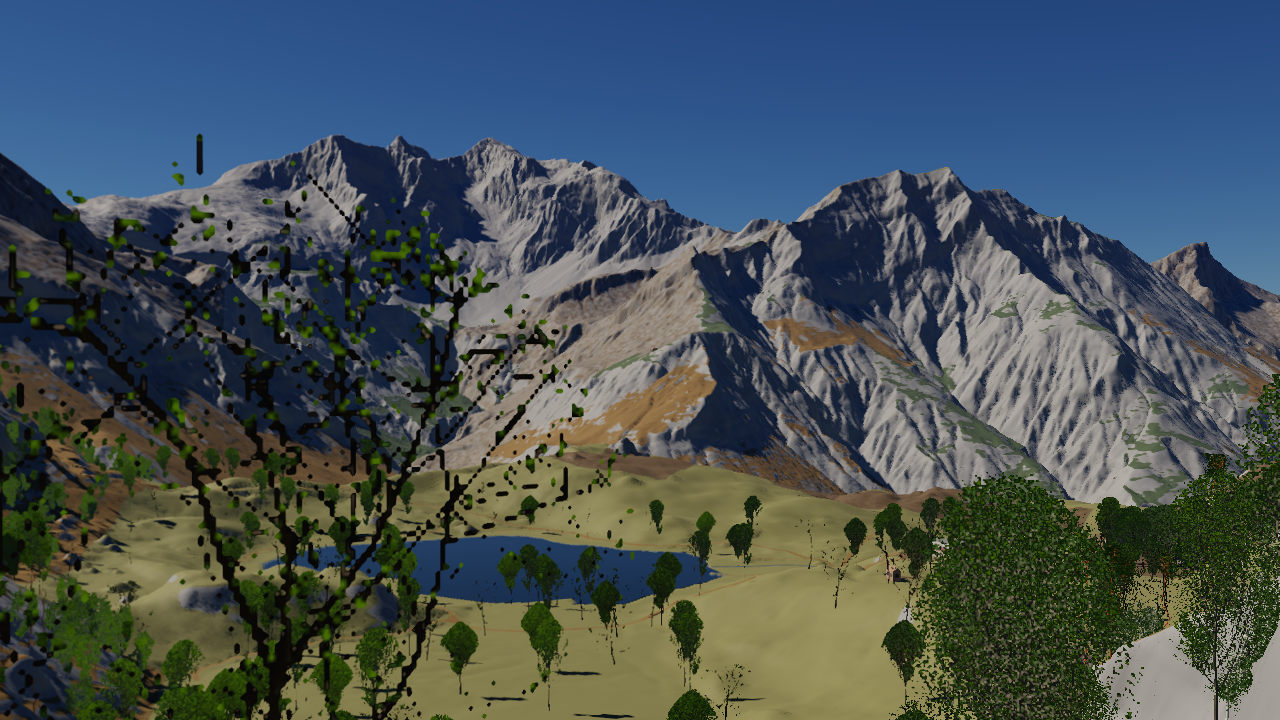
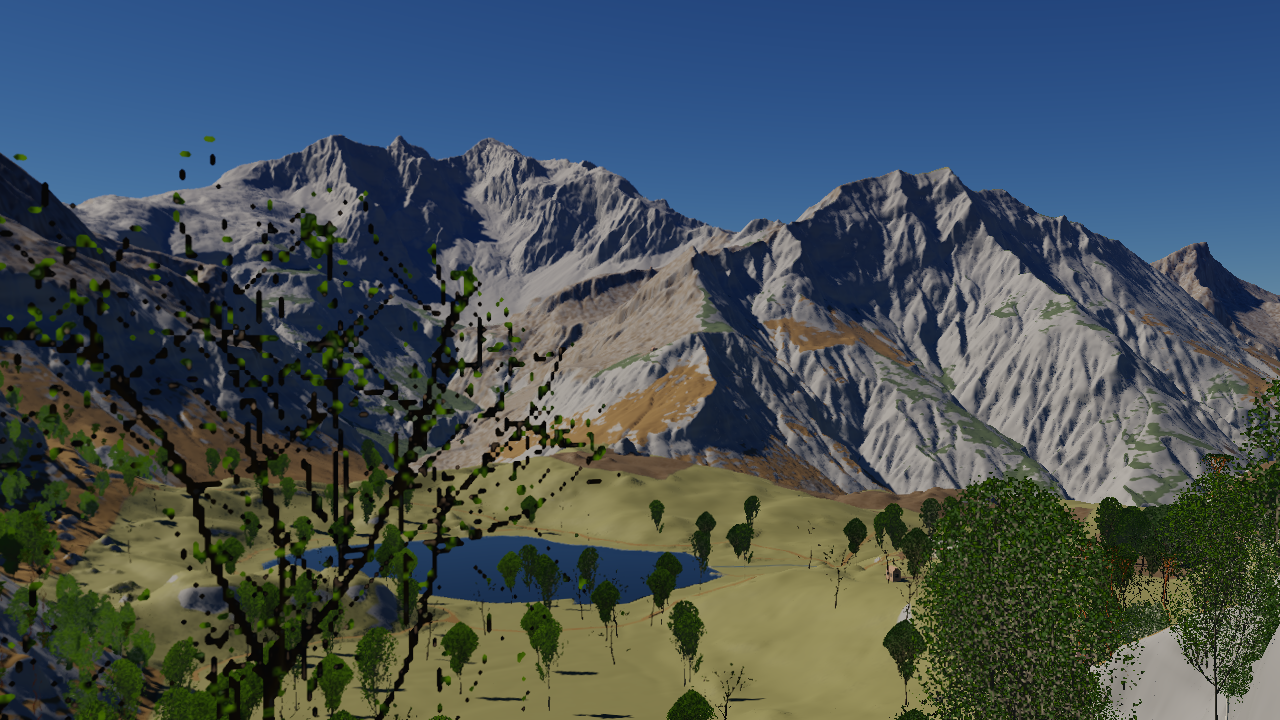
Refresh integrated places after crown and ownership fixes (#1, #15)

diff --git a/test/experiments/render/native_crown_clipping.md b/test/experiments/render/native_crown_clipping.md
@@ -43,3 +43,10 @@ claimed. The first new-product preparation hit the ten-second capture timeout;
 an explicit preparation run with a longer timeout completed the remaining work.
 The later warm measurements keep the original ten-second limit. First asset
 generation and prepared loading must remain separate measurements.
+
+The backend-independent correction is also integrated separately into master.
+Twelve affected SDL-path tests and the three changed implementation units pass
+focused tidy. Twelve fresh integrated SDL Places load in 736–2223 ms, with
+CPU-p99 at most 4.432 ms. Their overview and the three gallery images were
+opened. Direct GPU timestamps remain unavailable in that backend; these are not
+GPU-budget passes. The complete native port remains a separate draft.

diff --git a/test/experiments/render/native_static_geometry.md b/test/experiments/render/native_static_geometry.md
@@ -46,3 +46,8 @@ the one-second turn limit at 1001.958 ms. Eight Places hold all measured limits;
 all CPU-p99 are below 7.1 ms. These changing spikes require further work and do
 not admit the native port to master. Source coverage, profile, view distance,
 shader math and rendered contents are unchanged.
+
+The generic ownership change is subsequently integrated separately into master
+after the affected SDL tests and focused analysis pass. The footprint saving
+above remains a native-backend paired measurement, not an independently measured
+SDL process saving. The complete native port remains a separate draft.
